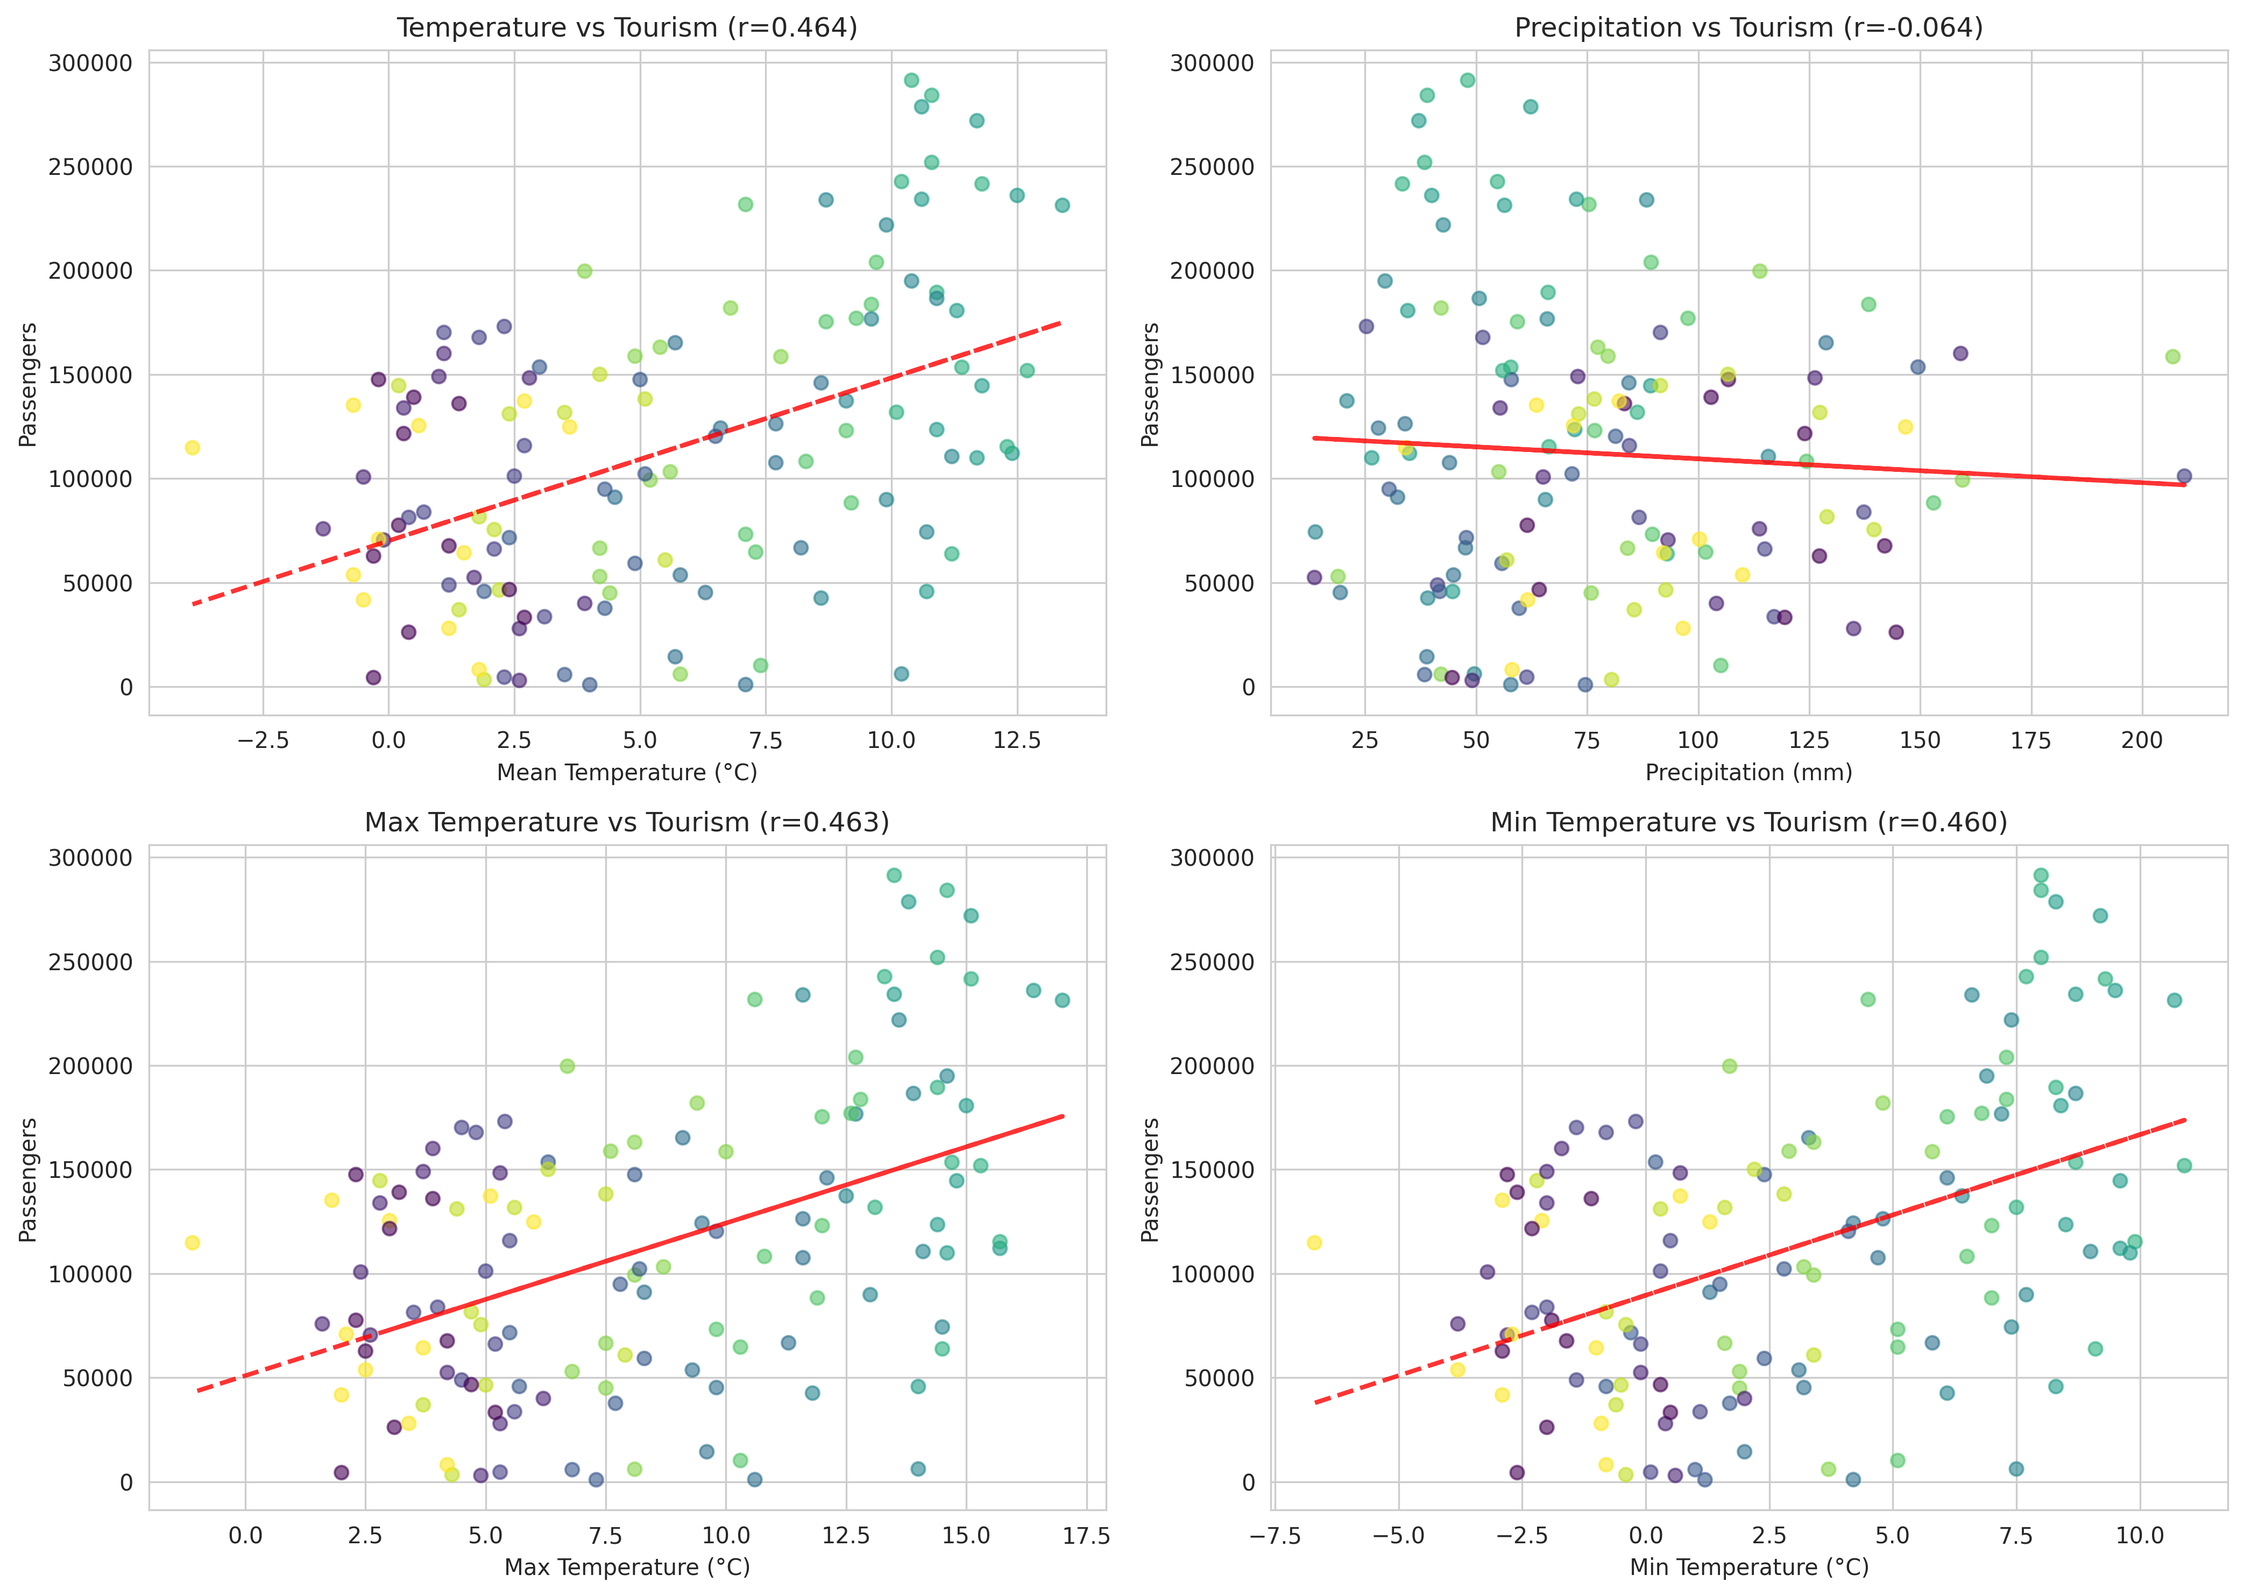
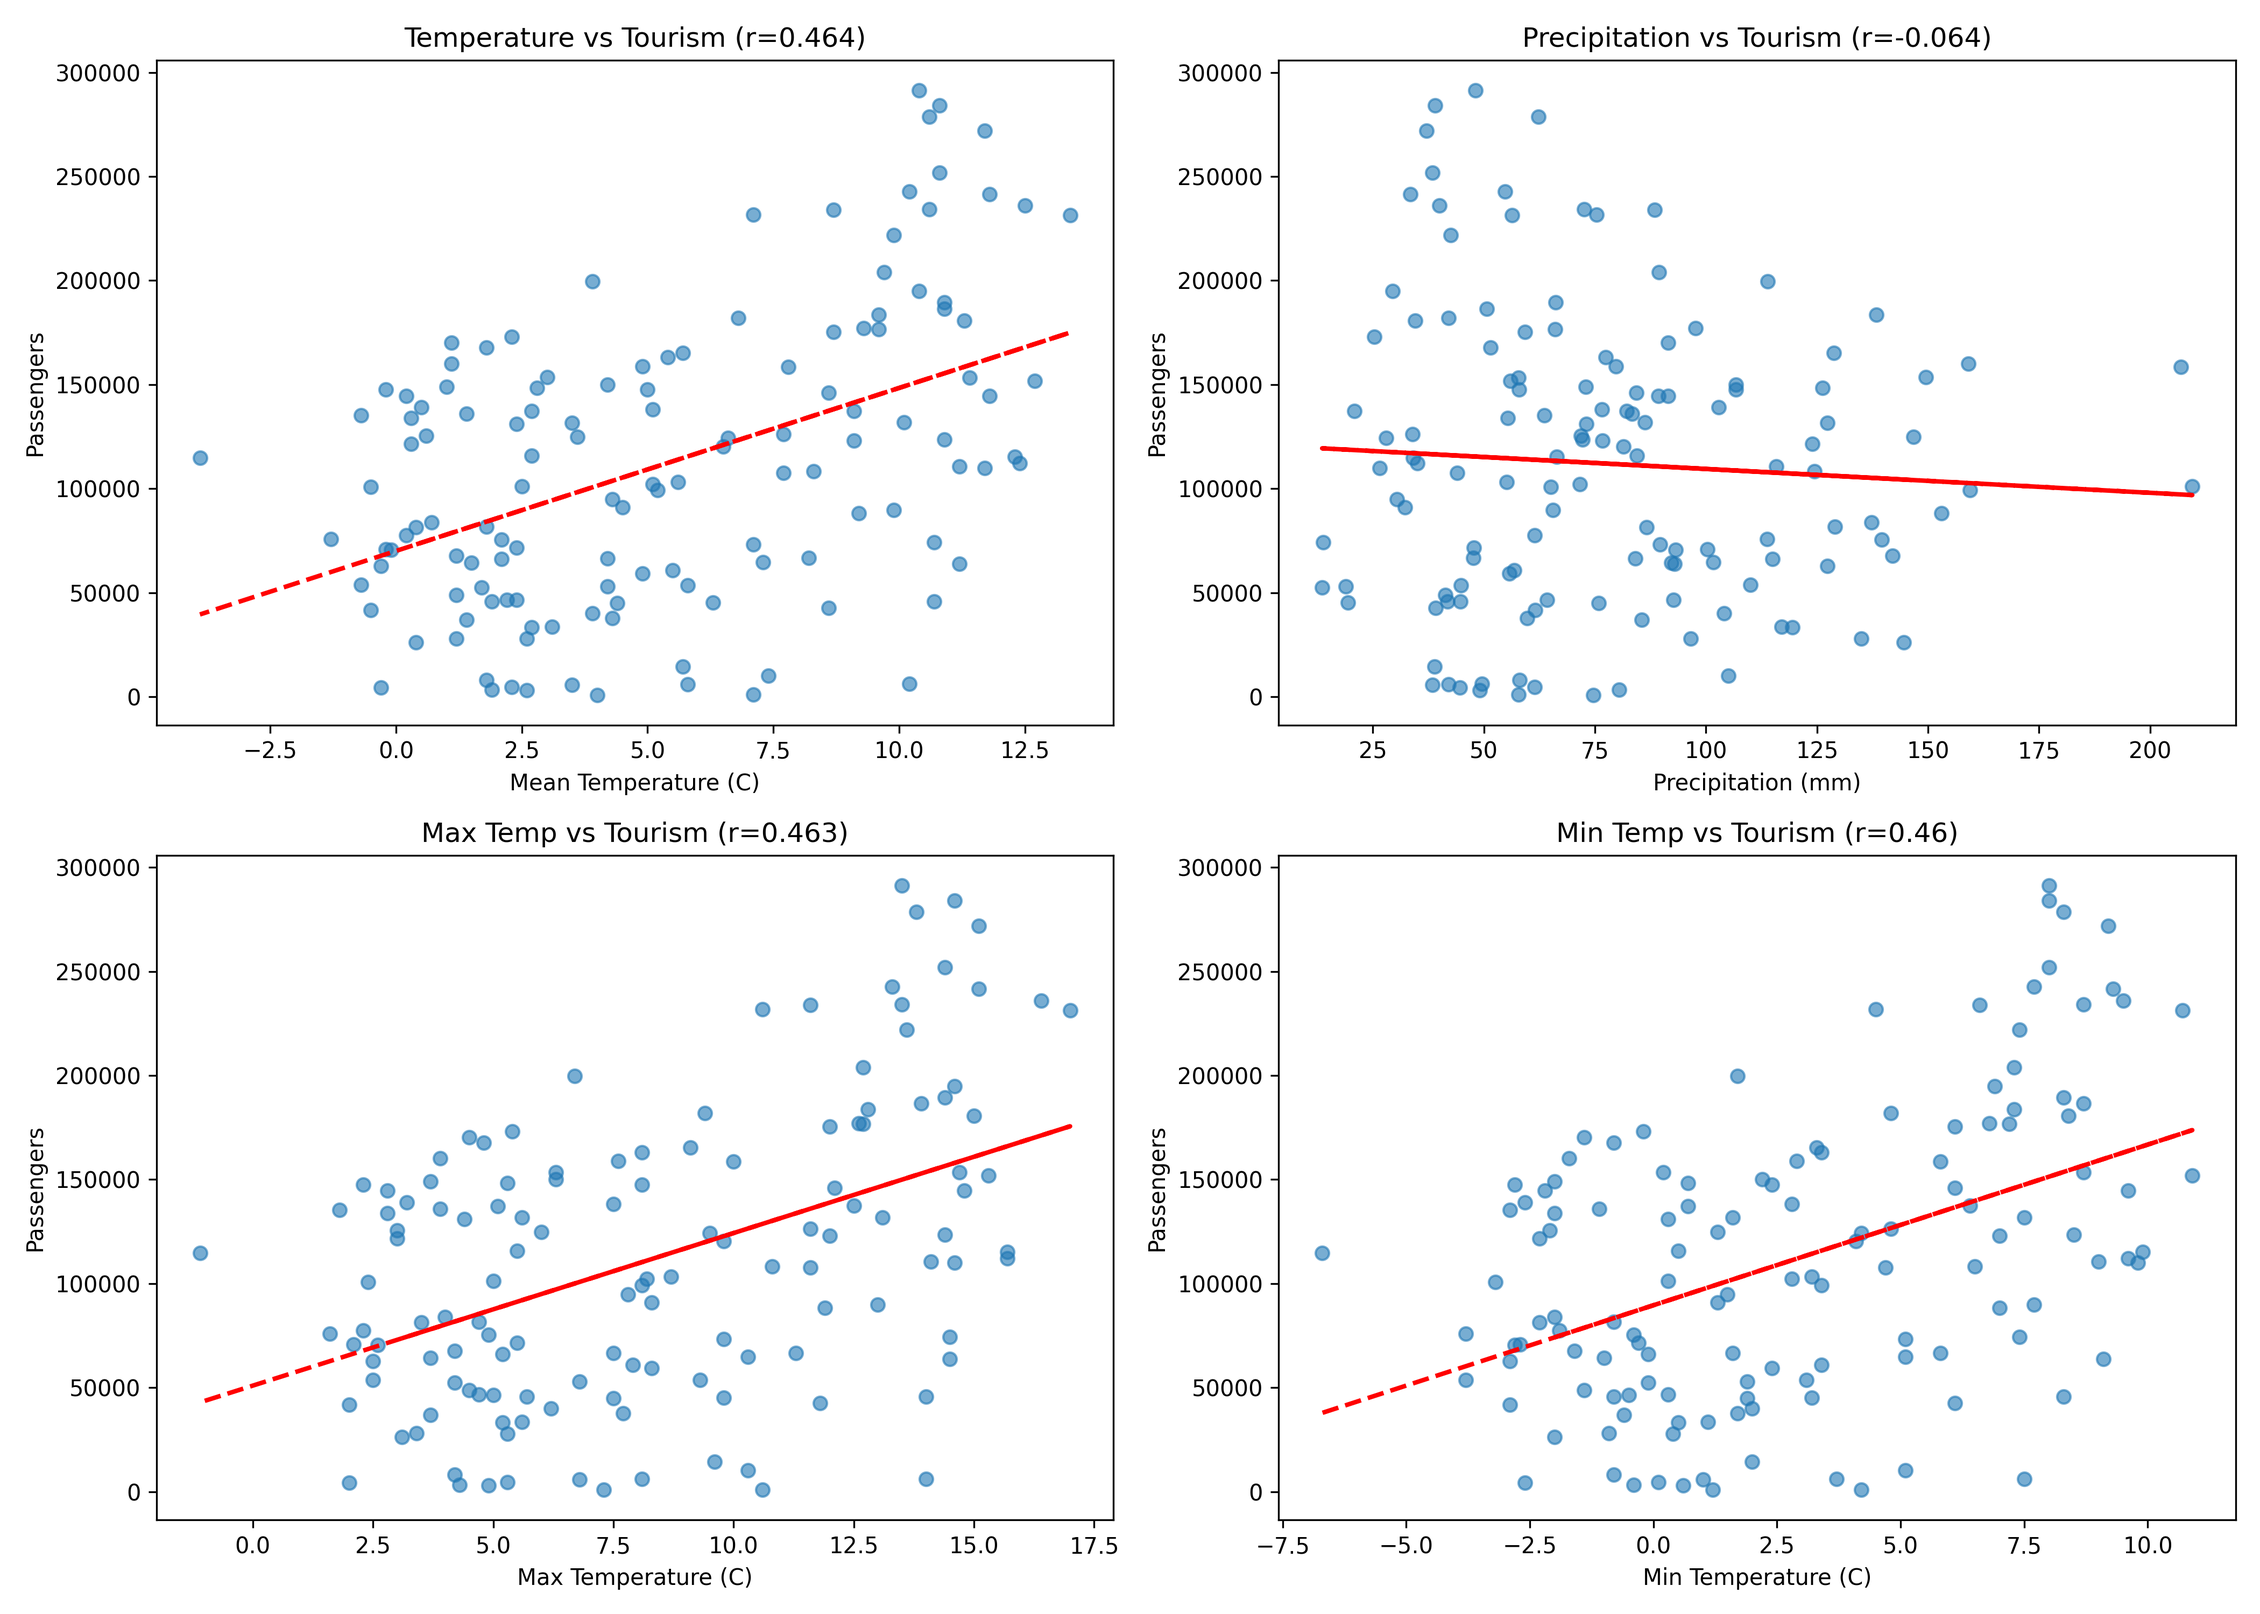
added the analasys file now it is finished

diff --git a/code/analasys.py b/code/analasys.py
@@ -1,0 +1,272 @@
+# analysis script for tourism and weather data
+# hopverkefni 1
+
+import pandas as pd
+import numpy as np
+import matplotlib.pyplot as plt
+import seaborn as sns
+from scipy import stats
+from sklearn.linear_model import LinearRegression
+from sklearn.preprocessing import StandardScaler
+
+plt.rcParams['figure.figsize'] = (12, 8)
+
+print("WEATHER IMPACT ON TOURISM IN ICELAND")
+print("=====================================")
+
+# load data
+passengers = pd.read_csv('../2026csv/passengers_clean.csv')
+weather = pd.read_csv('../2026csv/weather_clean.csv')
+
+# merge on year and month
+df = pd.merge(passengers, weather, on=['year', 'month', 'date'])
+df['date'] = pd.to_datetime(df['date'])
+
+print("\nDataset info:")
+print("Total months: " + str(len(df)))
+print("From " + str(df['date'].min()) + " to " + str(df['date'].max()))
+
+# basic stats
+print("\nPassenger stats:")
+print("Mean: " + str(round(df['passengers'].mean())))
+print("Min: " + str(df['passengers'].min()))
+print("Max: " + str(df['passengers'].max()))
+
+print("\nWeather stats:")
+print("Mean temp: " + str(round(df['mean_temp'].mean(), 1)) + " C")
+print("Mean precipitation: " + str(round(df['precipitation'].mean(), 1)) + " mm")
+
+# 1. time series plot
+fig, axes = plt.subplots(2, 1, figsize=(14, 10))
+
+axes[0].plot(df['date'], df['passengers'], linewidth=2, color='steelblue')
+axes[0].set_title('Tourist Arrivals in Iceland (2012-2022)')
+axes[0].set_ylabel('Number of Passengers')
+axes[0].grid(True)
+
+ax2 = axes[1]
+ax2.plot(df['date'], df['mean_temp'], label='Mean Temperature', linewidth=2, color='orangered')
+ax2.set_ylabel('Temperature (C)')
+
+ax3 = ax2.twinx()
+ax3.bar(df['date'], df['precipitation'], alpha=0.3, color='steelblue', width=20)
+ax3.set_ylabel('Precipitation (mm)')
+
+axes[1].set_title('Weather in Iceland (2012-2022)')
+axes[1].set_xlabel('Date')
+axes[1].grid(True)
+
+plt.tight_layout()
+plt.savefig('1_time_series.png', dpi=300)
+print("\nSaved: 1_time_series.png")
+plt.close()
+
+# 2. seasonal analysis
+def get_season(month):
+    if month in [12, 1, 2]:
+        return 'Winter'
+    elif month in [3, 4, 5]:
+        return 'Spring'
+    elif month in [6, 7, 8]:
+        return 'Summer'
+    else:
+        return 'Fall'
+
+df['season'] = df['month'].apply(get_season)
+
+monthly_avg = df.groupby('month').agg({
+    'passengers': 'mean',
+    'mean_temp': 'mean',
+    'precipitation': 'mean'
+}).reset_index()
+
+fig, axes = plt.subplots(2, 2, figsize=(14, 10))
+
+axes[0, 0].bar(monthly_avg['month'], monthly_avg['passengers'], color='steelblue')
+axes[0, 0].set_title('Average Monthly Tourist Arrivals')
+axes[0, 0].set_xlabel('Month')
+axes[0, 0].set_ylabel('Passengers')
+
+axes[0, 1].plot(monthly_avg['month'], monthly_avg['mean_temp'], marker='o', color='orangered')
+axes[0, 1].set_title('Average Monthly Temperature')
+axes[0, 1].set_xlabel('Month')
+axes[0, 1].set_ylabel('Temperature (C)')
+axes[0, 1].grid(True)
+
+seasonal_avg = df.groupby('season').agg({
+    'passengers': 'mean',
+    'mean_temp': 'mean'
+}).reindex(['Winter', 'Spring', 'Summer', 'Fall'])
+
+axes[1, 0].bar(seasonal_avg.index, seasonal_avg['passengers'], color=['lightblue', 'lightgreen', 'gold', 'orange'])
+axes[1, 0].set_title('Average Seasonal Tourist Arrivals')
+axes[1, 0].set_ylabel('Passengers')
+
+axes[1, 1].bar(seasonal_avg.index, seasonal_avg['mean_temp'], color=['lightblue', 'lightgreen', 'gold', 'orange'])
+axes[1, 1].set_title('Average Seasonal Temperature')
+axes[1, 1].set_ylabel('Temperature (C)')
+
+plt.tight_layout()
+plt.savefig('2_seasonal_patterns.png', dpi=300)
+print("Saved: 2_seasonal_patterns.png")
+plt.close()
+
+print("\nSeasonal averages:")
+for season in ['Winter', 'Spring', 'Summer', 'Fall']:
+    s = df[df['season'] == season]
+    print(season + ": " + str(round(s['passengers'].mean())) + " passengers, " + str(round(s['mean_temp'].mean(), 1)) + " C")
+
+# 3. correlation
+weather_vars = ['mean_temp', 'max_temp', 'min_temp', 'precipitation']
+correlation_data = df[['passengers'] + weather_vars]
+correlations = correlation_data.corr()['passengers'].drop('passengers')
+
+print("\n\nCorrelations with passengers:")
+for var in weather_vars:
+    print(var + ": " + str(round(correlations[var], 3)))
+
+# heatmap
+fig, ax = plt.subplots(figsize=(10, 8))
+sns.heatmap(correlation_data.corr(), annot=True, fmt='.3f', cmap='coolwarm', center=0)
+plt.title('Correlation Matrix')
+plt.tight_layout()
+plt.savefig('3_correlation_heatmap.png', dpi=300)
+print("\nSaved: 3_correlation_heatmap.png")
+plt.close()
+
+# 4. scatter plots
+fig, axes = plt.subplots(2, 2, figsize=(14, 10))
+
+# temp vs passengers
+axes[0, 0].scatter(df['mean_temp'], df['passengers'], alpha=0.6)
+axes[0, 0].set_xlabel('Mean Temperature (C)')
+axes[0, 0].set_ylabel('Passengers')
+axes[0, 0].set_title('Temperature vs Tourism (r=' + str(round(correlations["mean_temp"], 3)) + ')')
+z = np.polyfit(df['mean_temp'], df['passengers'], 1)
+p = np.poly1d(z)
+axes[0, 0].plot(df['mean_temp'], p(df['mean_temp']), "r--", linewidth=2)
+
+# precip vs passengers
+axes[0, 1].scatter(df['precipitation'], df['passengers'], alpha=0.6)
+axes[0, 1].set_xlabel('Precipitation (mm)')
+axes[0, 1].set_ylabel('Passengers')
+axes[0, 1].set_title('Precipitation vs Tourism (r=' + str(round(correlations["precipitation"], 3)) + ')')
+z = np.polyfit(df['precipitation'], df['passengers'], 1)
+p = np.poly1d(z)
+axes[0, 1].plot(df['precipitation'], p(df['precipitation']), "r--", linewidth=2)
+
+# max temp
+axes[1, 0].scatter(df['max_temp'], df['passengers'], alpha=0.6)
+axes[1, 0].set_xlabel('Max Temperature (C)')
+axes[1, 0].set_ylabel('Passengers')
+axes[1, 0].set_title('Max Temp vs Tourism (r=' + str(round(correlations["max_temp"], 3)) + ')')
+z = np.polyfit(df['max_temp'], df['passengers'], 1)
+p = np.poly1d(z)
+axes[1, 0].plot(df['max_temp'], p(df['max_temp']), "r--", linewidth=2)
+
+# min temp
+axes[1, 1].scatter(df['min_temp'], df['passengers'], alpha=0.6)
+axes[1, 1].set_xlabel('Min Temperature (C)')
+axes[1, 1].set_ylabel('Passengers')
+axes[1, 1].set_title('Min Temp vs Tourism (r=' + str(round(correlations["min_temp"], 3)) + ')')
+z = np.polyfit(df['min_temp'], df['passengers'], 1)
+p = np.poly1d(z)
+axes[1, 1].plot(df['min_temp'], p(df['min_temp']), "r--", linewidth=2)
+
+plt.tight_layout()
+plt.savefig('4_scatter_plots.png', dpi=300)
+print("Saved: 4_scatter_plots.png")
+plt.close()
+
+# 5. statistical tests
+print("\n\nStatistical tests (Pearson):")
+for var in weather_vars:
+    r, p_value = stats.pearsonr(df[var], df['passengers'])
+    print(var + ": r=" + str(round(r, 3)) + ", p=" + str(round(p_value, 4)))
+
+# 6. regression
+X = df[weather_vars].values
+y = df['passengers'].values
+
+scaler = StandardScaler()
+X_scaled = scaler.fit_transform(X)
+
+model = LinearRegression()
+model.fit(X_scaled, y)
+
+y_pred = model.predict(X_scaled)
+r2 = model.score(X_scaled, y)
+
+# adjusted r2
+n = len(y)
+p = len(weather_vars)
+adj_r2 = 1 - (1 - r2) * (n - 1) / (n - p - 1)
+
+print("\n\nRegression results:")
+print("R2: " + str(round(r2, 4)))
+print("Adjusted R2: " + str(round(adj_r2, 4)))
+print("RMSE: " + str(round(np.sqrt(np.mean((y - y_pred)**2)))))
+
+print("\nCoefficients:")
+for i in range(len(weather_vars)):
+    print(weather_vars[i] + ": " + str(round(model.coef_[i])))
+
+# regression plot
+fig, axes = plt.subplots(1, 2, figsize=(14, 6))
+
+axes[0].scatter(y, y_pred, alpha=0.6)
+axes[0].plot([y.min(), y.max()], [y.min(), y.max()], 'r--', lw=2)
+axes[0].set_xlabel('Actual Passengers')
+axes[0].set_ylabel('Predicted Passengers')
+axes[0].set_title('Actual vs Predicted (R2=' + str(round(r2, 3)) + ')')
+axes[0].grid(True)
+
+residuals = y - y_pred
+axes[1].scatter(y_pred, residuals, alpha=0.6)
+axes[1].axhline(y=0, color='r', linestyle='--')
+axes[1].set_xlabel('Predicted Passengers')
+axes[1].set_ylabel('Residuals')
+axes[1].set_title('Residual Plot')
+axes[1].grid(True)
+
+plt.tight_layout()
+plt.savefig('5_regression_analysis.png', dpi=300)
+print("\nSaved: 5_regression_analysis.png")
+plt.close()
+
+# 7. monthly breakdown
+print("\n\nMonthly analysis:")
+months = ['Jan', 'Feb', 'Mar', 'Apr', 'May', 'Jun', 'Jul', 'Aug', 'Sep', 'Oct', 'Nov', 'Dec']
+for month in range(1, 13):
+    month_data = df[df['month'] == month]
+    if len(month_data) > 2:
+        corr, _ = stats.pearsonr(month_data['mean_temp'], month_data['passengers'])
+        print(months[month-1] + ": avg passengers=" + str(round(month_data['passengers'].mean())) + ", avg temp=" + str(round(month_data['mean_temp'].mean(), 1)) + ", corr=" + str(round(corr, 3)))
+
+# 8. yearly stats
+print("\n\nYearly totals:")
+yearly = df.groupby('year').agg({'passengers': 'sum', 'mean_temp': 'mean'})
+for year in yearly.index:
+    print(str(year) + ": " + str(yearly.loc[year, 'passengers']) + " passengers, avg temp " + str(round(yearly.loc[year, 'mean_temp'], 1)) + " C")
+
+# summary
+print("\n\n========== SUMMARY ==========")
+print("\nMain findings:")
+print("1. Temperature correlation: " + str(round(correlations['mean_temp'], 3)))
+print("2. Precipitation correlation: " + str(round(correlations['precipitation'], 3)))
+
+summer = df[df['season'] == 'Summer']['passengers'].mean()
+winter = df[df['season'] == 'Winter']['passengers'].mean()
+print("3. Summer has " + str(round(summer/winter, 1)) + "x more tourists than winter")
+print("4. Weather explains " + str(round(r2*100, 1)) + "% of tourism variation")
+
+print("\nConclusion:")
+if correlations['mean_temp'] > 0.5:
+    print("Weather has a significant effect on tourism in Iceland.")
+    print("Warmer temperatures = more tourists")
+elif correlations['mean_temp'] > 0.3:
+    print("Weather has a moderate effect on tourism.")
+else:
+    print("Weather has a weak direct effect on tourism.")
+
+print("\nDone!")
